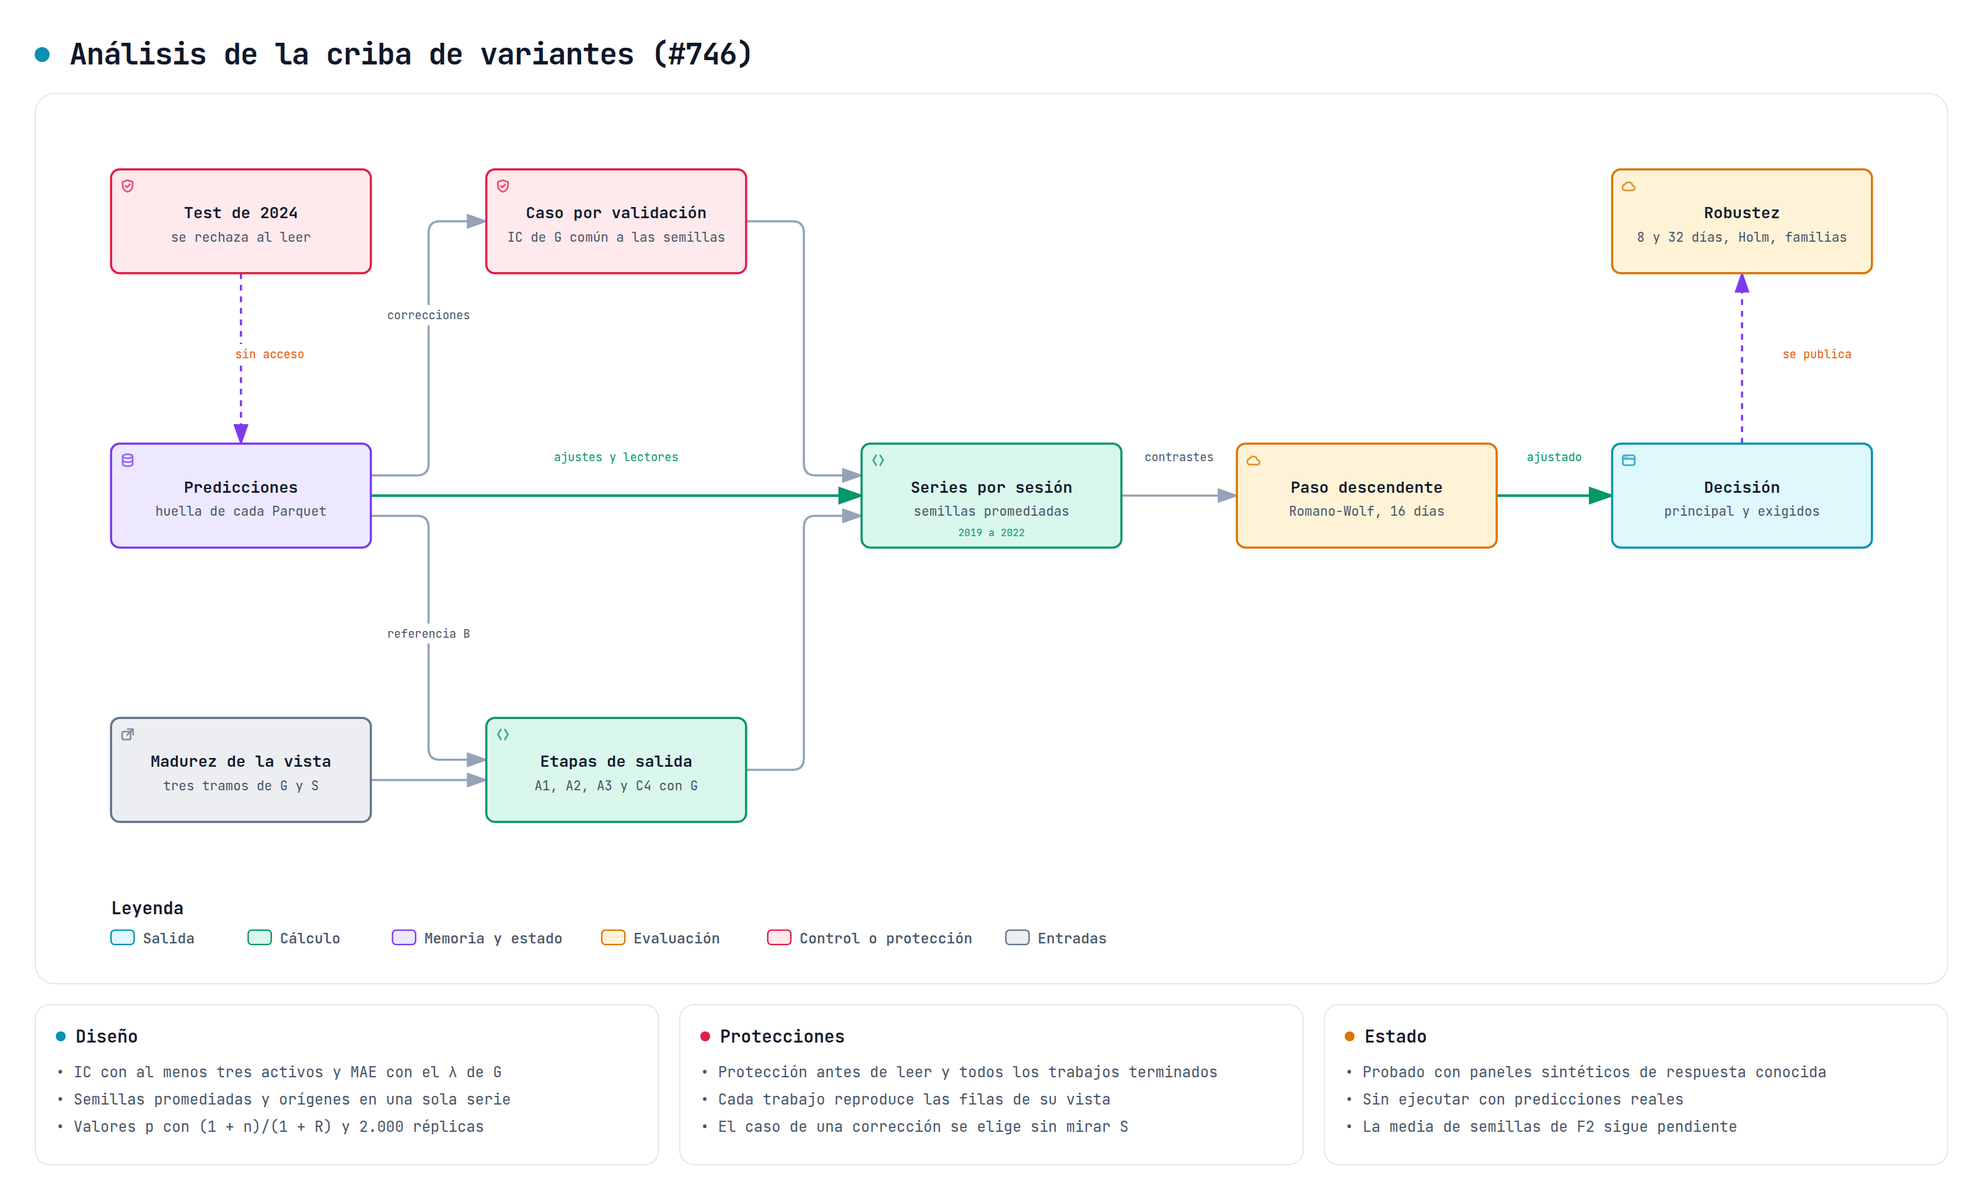
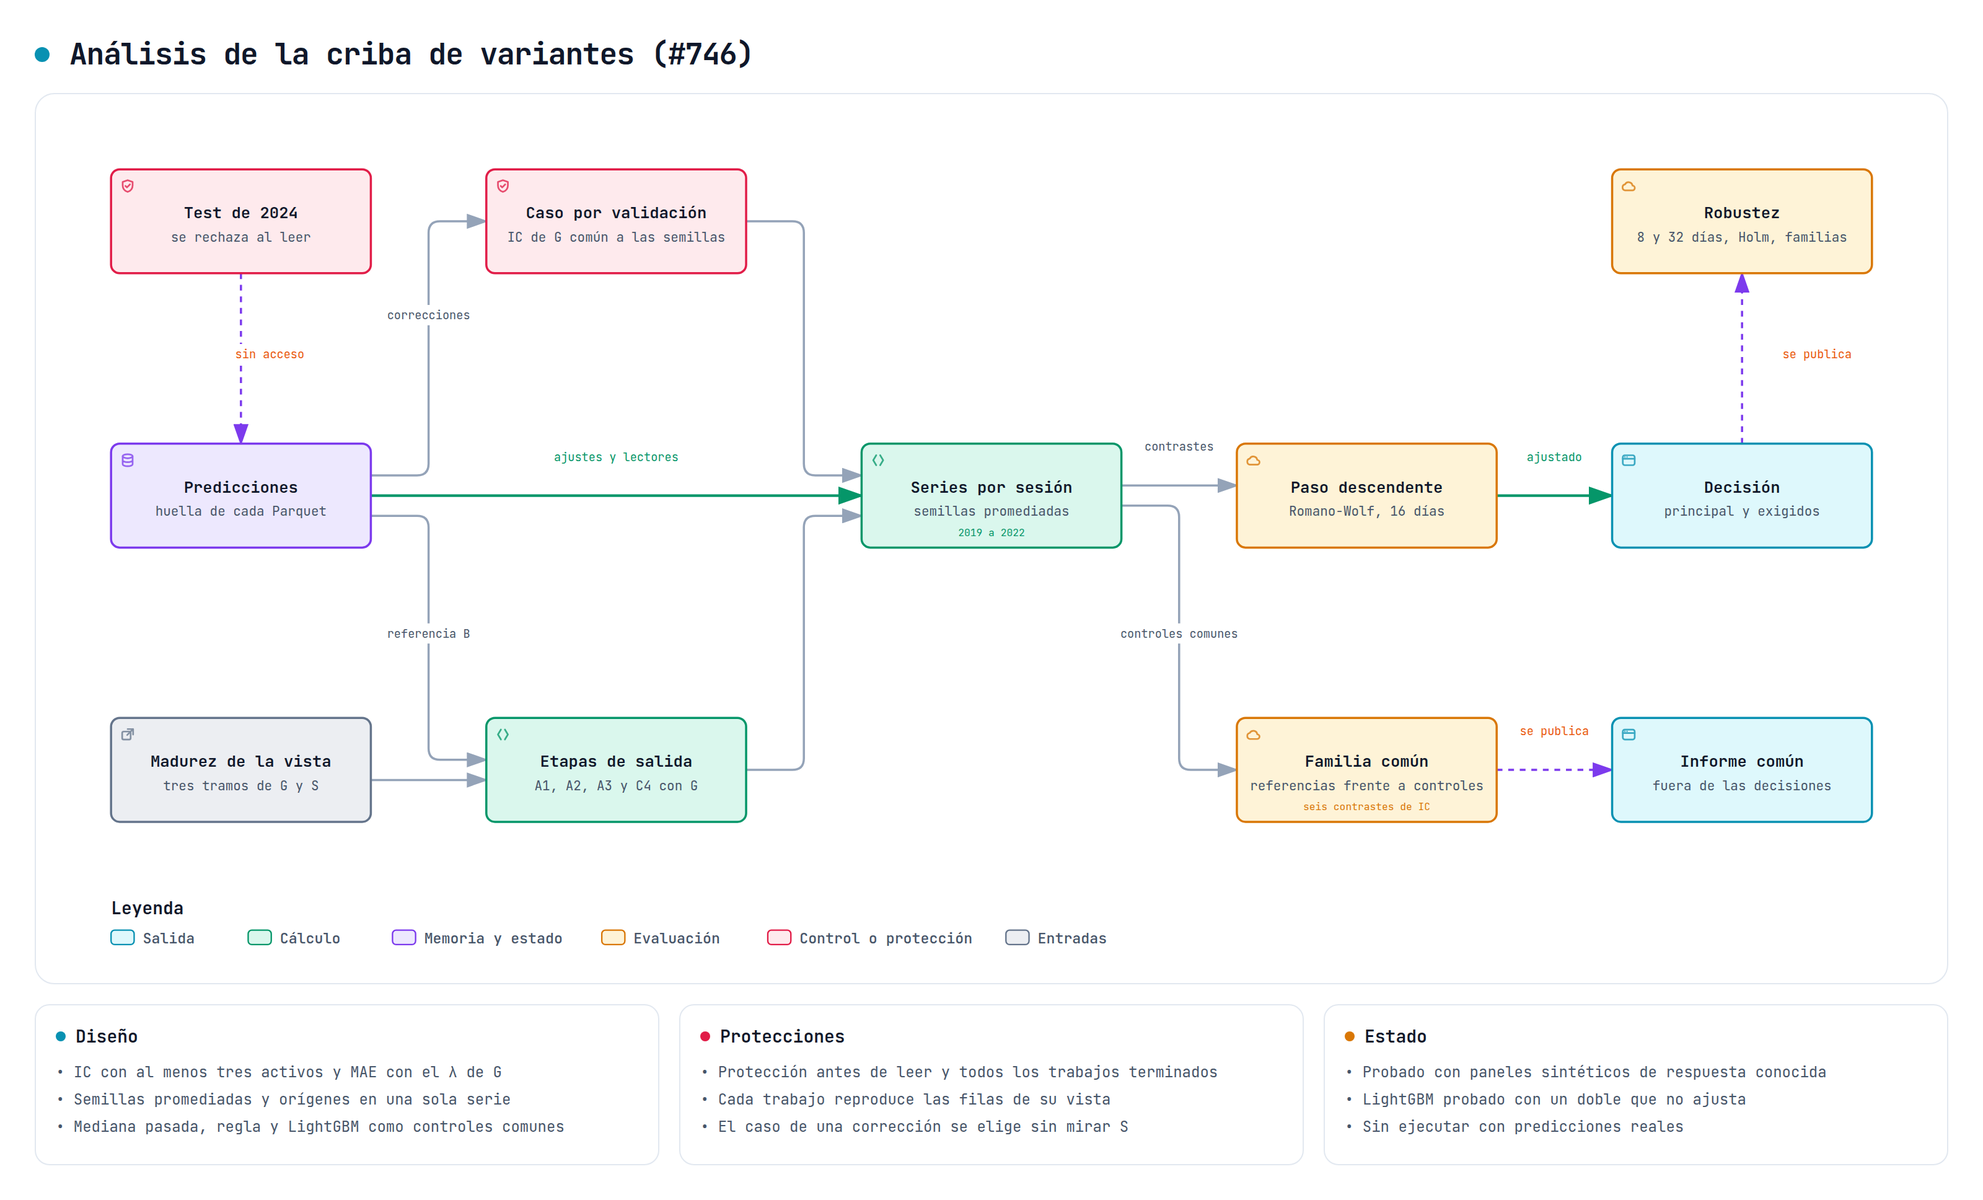
docs(experiments): document the common controls of the screening with their cost

diff --git a/docs/experiments/variant-screening-v1.md b/docs/experiments/variant-screening-v1.md
@@ -2,7 +2,7 @@
 
 Este documento registra el protocolo de la criba del estudio de variantes de [#742](https://github.com/GonxKZ/mars-titan/issues/742), que se implementa en [#746](https://github.com/GonxKZ/mars-titan/issues/746). Se fija antes de abrir ningún dato de S. La [declaración](../../configs/experiments/variant-screening-v1.json) contiene todos los valores y el [motor](../../benchmarks/variant_screening_study.py) la lee sin admitir cambios a mitad de la criba.
 
-Nada de lo descrito se ha ejecutado. La protección del aprendizaje sigue activa, el test de 2024 sigue cerrado y la GPU solo se usará cuando quede libre. Las cifras de coste son estimaciones a partir de pilotos anteriores.
+Nada de lo descrito se ha ejecutado. La protección del aprendizaje sigue activa, el test de 2024 sigue cerrado y la GPU solo se usará cuando quede libre. Las cifras de coste son estimaciones a partir de pilotos anteriores y de cotas declaradas.
 
 ## Pregunta
 
@@ -134,13 +134,35 @@ Los contrastes que solo se publican están en la declaración de cada entrada. E
 
 ## Controles comunes
 
-Cero, la referencia de su cabeza y la mediana pasada del residuo de la fase 0 están disponibles. La regla de momentum y reversión y LightGBM con las mismas características figuran en #742 y todavía no están implementados. Nadaraya-Watson es un control de B1 dentro de su declaración.
+El control de cada variante es la referencia de su cabeza, y Nadaraya-Watson es un control de B1 dentro de su declaración. Además, cuatro controles comunes sitúan las dos referencias frente a modelos sencillos y frente a un modelo tabular con las mismas entradas. Se registraron el 28 de octubre, antes de abrir S.
+
+| Control | Ejecutor | Predicción |
+| --- | --- | --- |
+| Cero | Análisis | Un residuo nulo |
+| Mediana pasada (`past_median_v1`) | Análisis | La mediana de las 60 últimas etiquetas del activo con dos sesiones de retraso, con al menos 20, como en la fase 0 |
+| Momentum y reversión (`momentum_reversal_v1`) | `rule` | La media de los rangos centrados por sesión de la reversión de cinco sesiones (Lehmann, 1990) y del momentum del resto de la ventana (Jegadeesh y Titman, 1993) |
+| LightGBM (`same_inputs_lightgbm_v1`) | `tabular` | LightGBM (Ke et al., 2017) con los parámetros de Qlib sobre Alpha158 (Yang et al., 2020) y las entradas de la criba |
+
+La mediana pasada la calcula el análisis con las etiquetas de validación, calibración y evaluación de la referencia de cuantiles de cada origen. Numera las sesiones de cada mercado sobre los tres tramos y exige que cada etiqueta haya madurado antes de la primera decisión que la usa. Si no, se detiene. Como no lee el tramo de ajuste, las primeras 21 sesiones de los seis meses de validación no tienen etiquetas suficientes y predicen cero. La calibración y la evaluación ya tienen la ventana completa.
+
+La regla lee la misma ventana de precios de 64 sesiones que los modelos y no ajusta ningún parámetro. Su escala para el MAE calibrado la fija el λ de cada mercado, como en el resto de modelos. La ventana solo cubre unos tres meses, así que su momentum no es el de doce meses de Jegadeesh y Titman.
+
+LightGBM conserva los parámetros de `LGBModel` y del flujo Alpha158 en el commit fijado de Qlib, cuyas huellas guarda la declaración. Como Alpha158, entrena con el residuo normalizado en cada sesión, con la media y la desviación con ddof = 1, y no normaliza las características. Sin esa normalización, las penalizaciones L1 y L2 de Qlib, elegidas para etiquetas de varianza unidad, anularían las hojas con residuos del orden de 0,02. El protocolo declara cuatro cambios:
+
+- Las características son la ventana de precios aplanada, las cuatro modalidades y su presencia en cada fila, no las 158 de Alpha158.
+- Usa 8 hilos, los núcleos físicos del equipo, con `deterministic` y `force_col_wise` para que un ajuste se repita con su semilla.
+- La semilla de LightGBM es cada una de las cinco de la criba.
+- Las rondas no salen de la parada temprana de Qlib, sino de la regla de la época común. Cada diez rondas, hasta 1.000, se puntúa la validación con el IC por sesión, y la época común de las cinco semillas fija las rondas de todas.
+
+Ajusta con las filas de los meses de ajuste de su origen, las mismas decisiones que la fase de ajuste de Titans-MAC, y descarta las sesiones sin al menos dos filas o sin desviación. La ventana comprueba que la predicción emitida en validación reproduce la puntuada en las rondas elegidas.
+
+Cada origen tiene un trabajo de la regla y otro de LightGBM, que ajusta sus cinco semillas seguidas y guarda cada una en su carpeta. Al terminar el ajuste de una semilla guarda su booster y su serie de validación, así que un intento interrumpido solo ajusta las que faltan, y esos ajustes se borran cuando la ventana confirma sus predicciones. El texto de un booster de 1.000 rondas con 210 hojas se estima en unos 25 MB, de modo que el trabajo retiene como mucho unos 125 MB, una cifra sin medir. Los dos corren en CPU, sin tomar la GPU, y se cobran del mismo presupuesto. La familia común tiene seis contrastes del IC por sesión, la referencia de cuantiles y la escalar frente a la mediana pasada, a la regla y a LightGBM. Se publica con su propio paso descendente y no cambia ninguna decisión del catálogo.
 
 ## Presupuesto y coste estimado
 
 La criba ejecuta una sola carga GPU a la vez, con la GPU en exclusiva y sin parar otros procesos. Cada intento se cobra y nunca se devuelve. Un trabajo tiene como máximo 5.400 segundos y 20.000 actualizaciones.
 
-Con las entradas ejecutables hoy, el motor enumera 1.980 trabajos. La estimación usa medidas de pilotos con 64 y 256 activos y otra carga concurrente: el coste por fila y época de la captura local para los ajustes, el caudal de inferencia de 256 activos para las correcciones y la media de los lectores episódicos de la ronda de refinamientos para lectores y ventanas. Las filas son las de las cohortes reales de cada origen, y el [plan](../../reports/engineering/variant-screening-20261028/plan.json) guarda el cálculo.
+Con las entradas ejecutables hoy, el motor enumera 1.988 trabajos. La estimación usa medidas de pilotos con 64 y 256 activos y otra carga concurrente: el coste por fila y época de la captura local para los ajustes, el caudal de inferencia de 256 activos para las correcciones y la media de los lectores episódicos de la ronda de refinamientos para lectores y ventanas. La regla y LightGBM no tienen piloto, y su coste es una cota declarada por origen, 600 segundos para la regla y 5.400, el límite de un trabajo, para LightGBM, porque su ajuste no puede medirse mientras rige el bloqueo. Las filas son las de las cohortes reales de cada origen, y el [plan](../../reports/engineering/variant-screening-20261028/plan.json) guarda el cálculo.
 
 | Ejecutor | Trabajos | Horas estimadas |
 | --- | ---: | ---: |
@@ -149,11 +171,13 @@ Con las entradas ejecutables hoy, el motor enumera 1.980 trabajos. La estimació
 | `correction_profile` | 200 | 2,0 |
 | `reader` | 160 | 17,0 |
 | `spaced` | 120 | 12,7 |
-| Total | 1.980 | 153,5 |
+| `rule` | 4 | 0,7 |
+| `tabular` | 4 | 6,0 |
+| Total | 1.988 | 160,2 |
 
 Las versiones de la época común añaden 2,8 horas a los ajustes. Cada versión vuelve a predecir la calibración y la evaluación de su trabajo, y los 100 ajustes de los cinco modelos con versiones predicen cuatro. Antes de la enmienda la estimación era de 94,3 horas.
 
-Antes de integrar A4, C5, F2, F3 y D2 el motor enumeraba 1.740 trabajos y unas 97,2 horas. Las cinco entradas añaden 240 trabajos: A4 unas 17,4 horas, F2 21,5 (el control de tres veces las actualizaciones cuesta como tres ajustes), C5 8,7, F3 4,4 y D2 4,2. Las referencias de A4, C5, F2 y F3 son los mismos trabajos que las del protocolo y no se repiten. La estimación de 153,5 horas supera el límite aprobado de 150, y `plan` lo indica con `within_budget` en falso. Como prevé el protocolo, la criba no empezará sin una decisión del autor sobre el presupuesto o una versión nueva y reducida del protocolo.
+Antes de integrar A4, C5, F2, F3 y D2 el motor enumeraba 1.740 trabajos y unas 97,2 horas. Las cinco entradas añaden 240 trabajos: A4 unas 17,4 horas, F2 21,5 (el control de tres veces las actualizaciones cuesta como tres ajustes), C5 8,7, F3 4,4 y D2 4,2. Las referencias de A4, C5, F2 y F3 son los mismos trabajos que las del protocolo y no se repiten. Los controles comunes añadieron después 8 trabajos y 6,7 horas. La estimación de 160,2 horas supera el límite aprobado de 150, y `plan` lo indica con `within_budget` en falso. Como prevé el protocolo, la criba no empezará sin una decisión del autor sobre el presupuesto o una versión nueva y reducida del protocolo.
 
 ## Motor
 
@@ -170,7 +194,7 @@ uv run python -m benchmarks.variant_screening_study rule-check --work "${MARS_SC
   --output "${MARS_SCREENING_RULE_CHECK:?}"
 ```
 
-`prepare` verifica las cohortes, proyecta la vista de cada origen con las épocas y semillas del protocolo, escribe las recetas de cada definición y sella en `prepared.json` el protocolo, las declaraciones, las huellas de todo el paquete, el entorno y el catálogo de trabajos. `run` comprueba la protección antes de leer nada, vuelve a verificar el sello, exige que el padre y la variante emparejada hayan terminado, reserva el saldo del presupuesto y toma la GPU en exclusiva. Un trabajo interrumpido se reanuda desde su carpeta con los puntos de control de su ejecutor, y uno terminado no se repite. `queue` encadena `run` sobre los trabajos pendientes en el orden sellado, que pone cada padre y cada variante emparejada antes de quien los necesita. Las cinco semillas de cada definición van seguidas en ese orden. Un ajuste o un lector que ha recorrido su presupuesto espera a su grupo sin detener la cola. Cuando esperan las cinco semillas, la cola fija la época común y las reanuda en los pasos siguientes para emitir sus predicciones y sus versiones, antes de que empiece otro grupo. Un trabajo que espera sin la decisión de su grupo no se ejecuta ni se cobra, y si volviera a esperar después de recibirla la cola se detiene con un error. La cola se detiene en su límite opcional, que cuenta ejecuciones y no trabajos terminados, o ante el primer trabajo que falla o queda en pausa, y al volver a lanzarla continúa por ese trabajo. `status` añade los trabajos que esperan y los grupos decididos.
+`prepare` verifica las cohortes, proyecta la vista de cada origen con las épocas y semillas del protocolo, escribe las recetas de cada definición y sella en `prepared.json` el protocolo, las declaraciones, las huellas de todo el paquete, el entorno y el catálogo de trabajos. `run` comprueba la protección antes de leer nada, vuelve a verificar el sello, exige que el padre y la variante emparejada hayan terminado, reserva el saldo del presupuesto y toma la GPU en exclusiva, salvo la regla y LightGBM, que corren en CPU. Un trabajo interrumpido se reanuda desde su carpeta con los puntos de control de su ejecutor, y uno terminado no se repite. `queue` encadena `run` sobre los trabajos pendientes en el orden sellado, que pone cada padre y cada variante emparejada antes de quien los necesita. Las cinco semillas de cada definición van seguidas en ese orden. Un ajuste o un lector que ha recorrido su presupuesto espera a su grupo sin detener la cola. Cuando esperan las cinco semillas, la cola fija la época común y las reanuda en los pasos siguientes para emitir sus predicciones y sus versiones, antes de que empiece otro grupo. Un trabajo que espera sin la decisión de su grupo no se ejecuta ni se cobra, y si volviera a esperar después de recibirla la cola se detiene con un error. La cola se detiene en su límite opcional, que cuenta ejecuciones y no trabajos terminados, o ante el primer trabajo que falla o queda en pausa, y al volver a lanzarla continúa por ese trabajo. `status` añade los trabajos que esperan y los grupos decididos.
 
 `analyze` comprueba la protección antes de leer nada, exige que todos los trabajos hayan terminado, que cada ajuste y cada lector hayan emitido la época común y las versiones de su grupo, y verifica la huella de cada Parquet frente a su `run.json`. Lee la madurez de las etiquetas de los tres tramos de cada vista y el sector de las fichas actuales, que solo usa el control sectorial de C4. Escribe `analysis.json`, con decisiones, familias, casos elegidos y las huellas de lo leído, del código y del entorno, y `series.parquet`, con la serie por sesión de cada modelo y métrica.
 
@@ -185,6 +209,8 @@ uv run python -m benchmarks.variant_screening_study rule-check --work "${MARS_SC
 - La referencia textual de una corrección emite las predicciones de su padre.
 - A1, A2, A3 y C4 se ajustan con la calibración de la referencia B del mismo origen y semilla y se aplican sin cambios a S. A2 calcula una vez por semilla la abstención y sus cuatro controles con la misma cobertura, y A3 pasa sus cuantiles recalibrados a esa misma abstención.
 - El control cero predice un residuo nulo.
+- La mediana pasada sale de las etiquetas maduras de la referencia de cuantiles del origen.
+- La regla emite en todas las semillas la predicción de su trabajo de origen, y LightGBM la de su semilla, que el motor lee de su carpeta con la huella de su `run.json`.
 
 Cada trabajo tiene que reproducir las filas y los objetivos de su vista en los tres tramos, y ninguna emisión puede pertenecer al test final. El MAE calibrado multiplica la predicción de un modelo por el λ de cada mercado elegido en su calibración. Una etapa de salida ya emite su predicción final y se mide sin otro λ, así que A1 compara λ·mediana con cero y A2 compara salidas sin reescalar. Las semillas se promedian en cada sesión, que solo cuenta si todas la definen, y los cuatro orígenes se concatenan en una serie de 2019 a 2022. Cada modelo publica la media de la métrica principal y de las secundarias.
 
@@ -196,12 +222,13 @@ Cada familia se remuestrea sobre las sesiones que definen todos sus miembros, co
 - Doce épocas sobre un año sustituyen a las 30 épocas de la receta histórica sobre todo el tramo. El número de actualizaciones es del orden del de los pilotos, pero el modelo repite cada sesión de ajuste doce veces.
 - Un único caso de tasa para ajustes y lectores. La receta histórica explora dos.
 - Las cohortes se verificaron solo con metadatos. El lector del corpus comprueba los archivos Parquet al ejecutar.
-- El coste es una estimación con medidas de otros estudios.
-- C2, C3, la contracción de F3, la regla de momentum y LightGBM siguen pendientes. Sus entradas se registran con su estado y no producen trabajos.
+- El coste es una estimación con medidas de otros estudios. El de la regla y LightGBM son cotas declaradas.
+- C2, C3 y la contracción de F3 siguen pendientes. Sus entradas se registran con su estado y no producen trabajos.
+- LightGBM no se ha ajustado nunca con estas entradas. Las pruebas usan un LightGBM doble que recorre las rondas sin ajustar, así que su comportamiento con los parámetros de Qlib sobre residuos normalizados solo se observará en la criba.
+- La mediana pasada no lee el tramo de ajuste, a diferencia de la fase 0, que usaba toda la historia anterior.
 - La medida de las etapas de salida sin otro λ y el conteo (1 + n)/(1 + R) son decisiones del análisis que el protocolo no detallaba.
 - La selección del estado y del caso de las correcciones cambió el 28 de octubre, antes de abrir S. La regla anterior, la de menor MAE de validación en cada semilla, se conserva como sensibilidad y en la comprobación de la regla.
 - La época común conserva un estado por época hasta que el grupo emite sus predicciones. En pilotos anteriores, el estado de un ajuste de Titans-MAC ocupaba entre 2,3 y 3,1 MB y el de un lector unos 0,5 MB, así que un grupo de ajustes fija unos 190 MB. Como solo hay un grupo abierto a la vez, el pico es ese, pero no se ha medido con los modelos de la criba.
-- La mediana pasada figura entre los controles comunes, pero ningún contraste declarado la usa y el análisis no la calcula.
 - El análisis se ha comprobado con paneles sintéticos de respuesta conocida. No se ha ejecutado con predicciones reales.
 
 ## Comprobaciones

diff --git a/README.md b/README.md
@@ -232,7 +232,7 @@ La sesión financiera publica y recupera esos estados en M1, K = 1 y C desactiva
 
 El [comparador E2 por sesiones](docs/experiments/spaced-utility-comparison-v1.md) exige declarar el análisis antes de la ventana y conserva los controles, las filas y los parámetros seleccionados. Recalcula y coteja las métricas, incorpora el predictor residual cero y estima intervalos por bloques temporales. La API y la CLI mantienen la protección de aprendizaje y no promocionan variantes.
 
-El [protocolo de la criba](docs/experiments/variant-screening-v1.md) del estudio de variantes de [#742](https://github.com/GonxKZ/mars-titan/issues/742) queda registrado antes de abrir ningún dato. Usa cuatro orígenes rodantes de 2019 a 2022, cohortes de 256 activos de EE. UU. elegidas con información anterior a cada origen, ajustes de doce meses, cinco semillas y el IC por sesión frente al control propio como contraste principal, con familias Romano-Wolf y bloques temporales. La tabla del protocolo enlaza cada variante con su ejecutor, su control y su estado. El motor enumera y sella los trabajos y los ejecuta con la protección y una GPU exclusiva. Desde la enmienda del 28 de octubre, registrada antes de abrir S, cada ajuste y cada lector recorren su presupuesto y emiten la época común de sus cinco semillas, elegida con el IC por sesión de validación, y el MAE queda como sensibilidad. Su análisis elige con la validación un caso común a las semillas para cada corrección, aplica las etapas de salida y decide con el paso descendente de la familia declarada, y solo se ha probado con paneles sintéticos. No se ha ejecutado ningún trabajo.
+El [protocolo de la criba](docs/experiments/variant-screening-v1.md) del estudio de variantes de [#742](https://github.com/GonxKZ/mars-titan/issues/742) queda registrado antes de abrir ningún dato. Usa cuatro orígenes rodantes de 2019 a 2022, cohortes de 256 activos de EE. UU. elegidas con información anterior a cada origen, ajustes de doce meses, cinco semillas y el IC por sesión frente al control propio como contraste principal, con familias Romano-Wolf y bloques temporales. La tabla del protocolo enlaza cada variante con su ejecutor, su control y su estado. El motor enumera y sella los trabajos y los ejecuta con la protección y una GPU exclusiva. Cuatro controles comunes, el cero, la mediana pasada, una regla de momentum y reversión y LightGBM con los parámetros de Qlib y las mismas entradas, forman una familia propia que se publica sin cambiar ninguna decisión, y los dos últimos corren en CPU. Desde la enmienda del 28 de octubre, registrada antes de abrir S, cada ajuste y cada lector recorren su presupuesto y emiten la época común de sus cinco semillas, elegida con el IC por sesión de validación, y el MAE queda como sensibilidad. Su análisis elige con la validación un caso común a las semillas para cada corrección, aplica las etapas de salida y decide con el paso descendente de la familia declarada, y solo se ha probado con paneles sintéticos. No se ha ejecutado ningún trabajo.
 
 El [ensayo de firmas de archivo](docs/engineering/prefix-path-checks.md) conserva la referencia: el candidato fue más rápido en el microbenchmark, pero la sesión con diagnósticos no superó el margen de coste fijado antes de medir.
 
